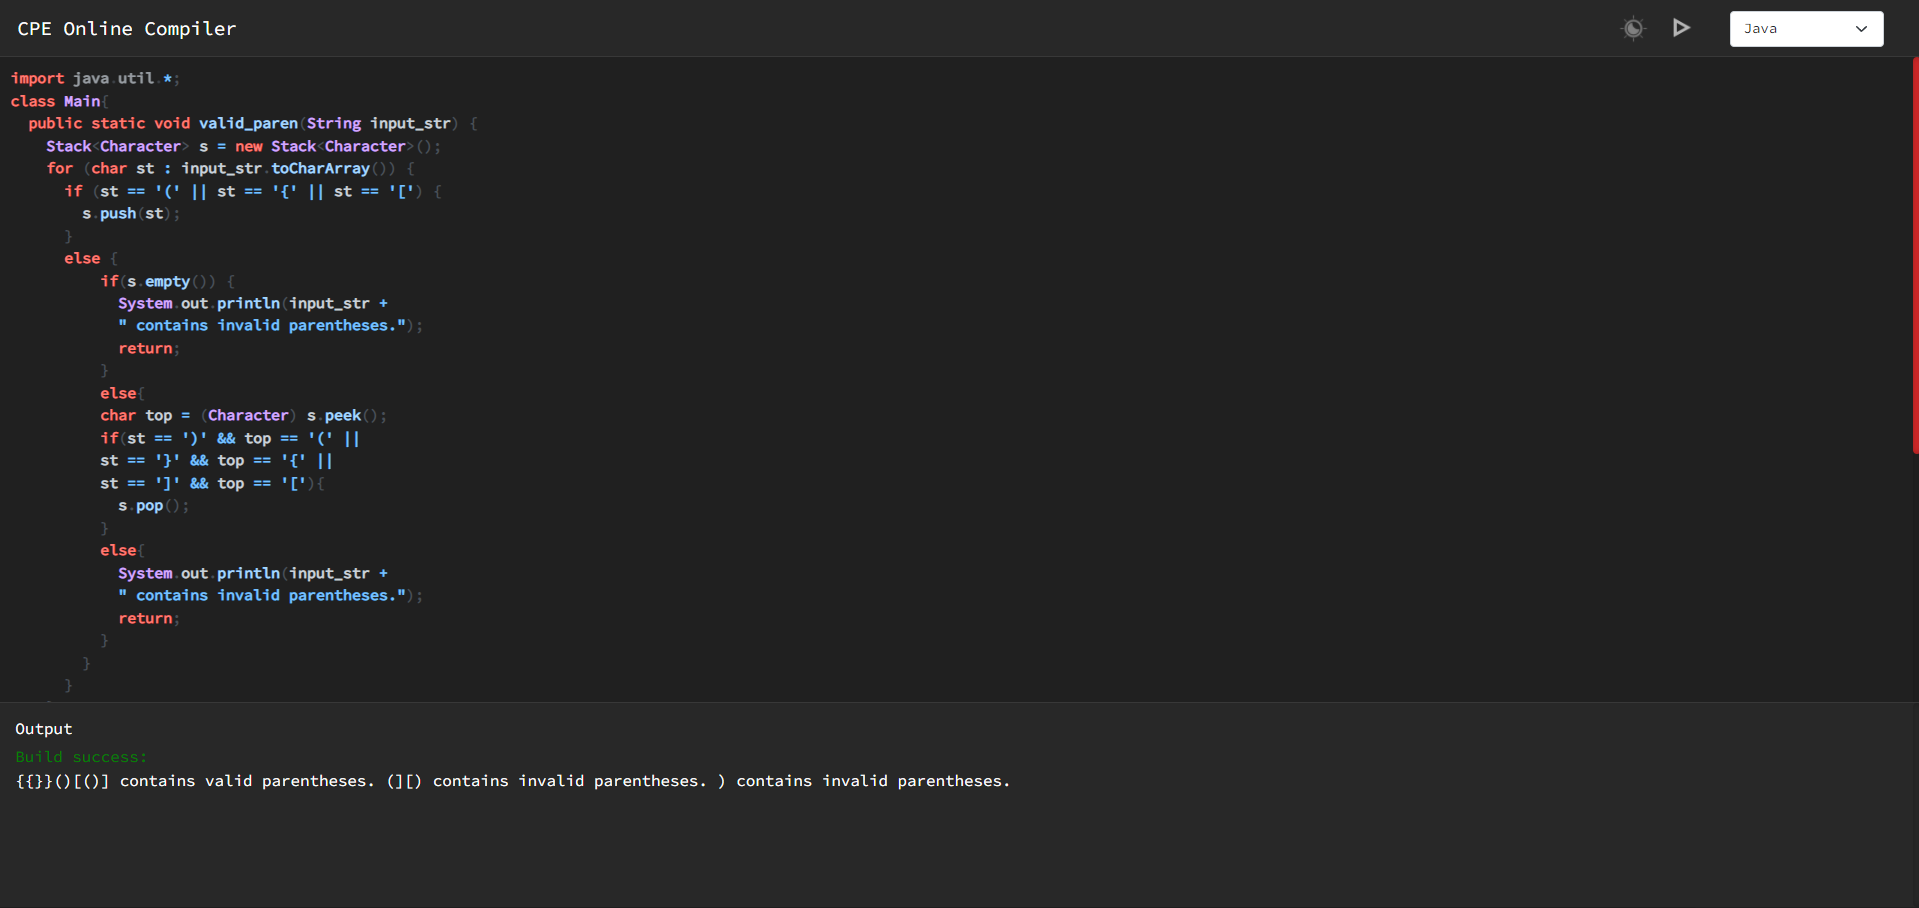
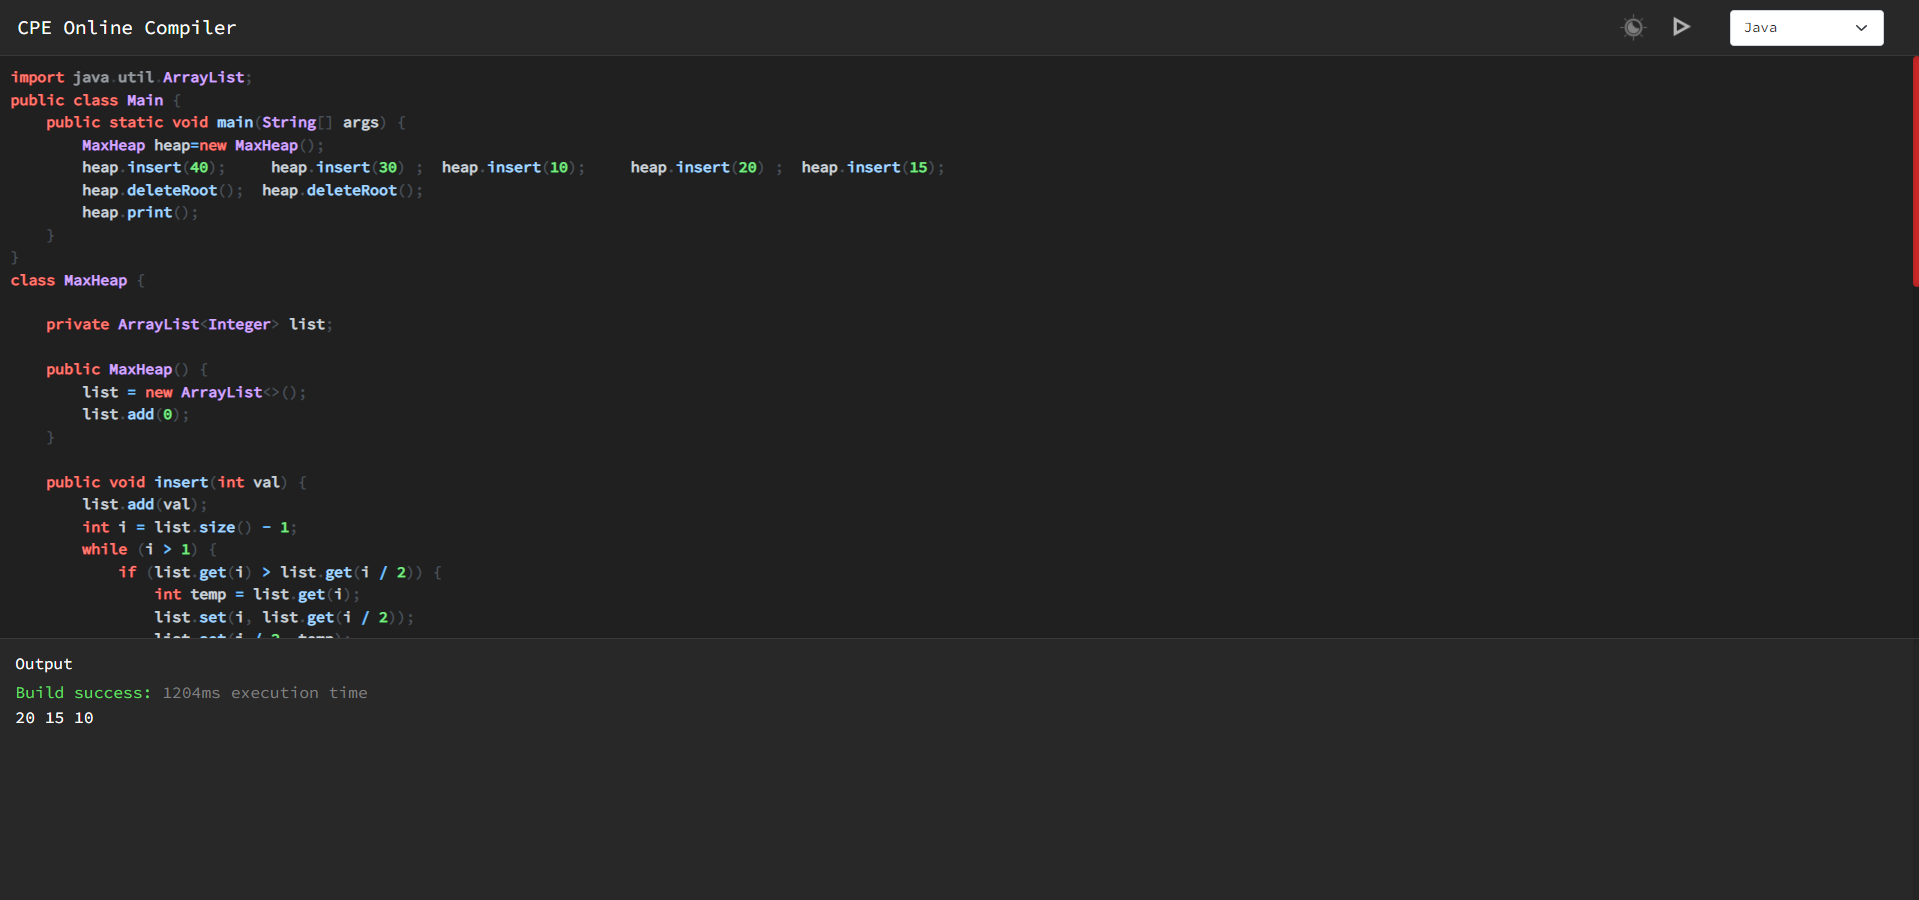
execution time added

diff --git a/backend/server.js b/backend/server.js
@@ -6,7 +6,7 @@ const { runcpp } = require('./runCpp')
 const { runjava } = require('./runJava')
 const { runpy } = require('./runPy')
 const { runc } = require('./runC')
-const {deleteFile}=require('./deleteFile')
+const { deleteFile } = require('./deleteFile')
 
 
 const app = express()
@@ -16,27 +16,32 @@ app.use(bodyParser.urlencoded({ extended: true }));
 
 
 app.post('/run', async (req, res) => {
+    const inDate = new Date()
     const { language, code } = req.body
     if (!language) return res.json({ error: 'No language mentioned' })
     if (!code) return res.json({ error: 'Empty code' })
     const fileCreatedPath = await createFile(code, language)
     if (language === 'cpp') {
         const out = await runcpp(fileCreatedPath)
+        out.push(new Date() - inDate);
         deleteFile(fileCreatedPath)
         res.send(out);
     }
     if (language === 'java') {
-        const out =await  runjava(fileCreatedPath)
+        const out = await runjava(fileCreatedPath)
+        out.push(new Date() - inDate);
         deleteFile(fileCreatedPath)
         res.send(out);
     }
     if (language === 'py') {
         const out = await runpy(fileCreatedPath)
+        out.push(new Date() - inDate);
         deleteFile(fileCreatedPath)
         res.send(out);
     }
     if (language === 'c') {
         const out = await runc(fileCreatedPath)
+        out.push(new Date() - inDate);
         deleteFile(fileCreatedPath)
         res.send(out);
     }

diff --git a/client/src/App.js b/client/src/App.js
@@ -20,6 +20,8 @@ function App() {
   const [bg1, setBg1] = useState('#202020')
   const [color,setColor]=useState('white')
   const [border,setBorder]=useState('rgb(56 56 56)')
+  const [buildcolor,setBuildcol]=useState('#65de65')
+  //
   async function sendCode() {
     setLoading(true)
     const resp = await fetch('http://localhost:5000/run', {
@@ -34,7 +36,7 @@ function App() {
     })
     const data = await resp.json()
     setLoading(false)
-    // console.log(data);
+    console.log(data);
     setOutput(data);
   }
   function setProplang(e) {
@@ -59,12 +61,14 @@ function App() {
       setBg1('#202020')
       setColor('white')
       setBorder('rgb(56 56 56)')
+      setBuildcol('#65de65')
     }
     else{
       setBg('rgb(235 235 235)')
       setBg1('#F2F3F5')
       setColor('black')
       setBorder('rgb(218 218 218)')
+      setBuildcol('#227f22')
     }
     setDark(!dark)
   }
@@ -122,7 +126,7 @@ function App() {
       }
       <Navbar border={border} col={color} bgcol={bg} run={sendCode} selectlang={setProplang} langsel={language} dark={handleDark} mode={dark}></Navbar>
       <TextEditor bgcol={bg1} code={setCode} c={code} lang={language}></TextEditor>
-      <Output border={border} col={color} bgcol={bg} op={output}></Output>
+      <Output buildcol={buildcolor} border={border} col={color} bgcol={bg} op={output}></Output>
     </div>
   );
 }

diff --git a/client/src/Output.js b/client/src/Output.js
@@ -6,7 +6,7 @@ export const Output = (props) => {
             <h6 style={{ color: props.col, zIndex: '99', position: 'absolute', top: '15px', fontSize: '15.25px' }}>Output </h6>
             <div className="output" style={{ color: 'white', display: 'flex', flexDirection: 'column' }}>
                 {(props.op[0]) ?
-                    <span style={{ color: 'green' }}> Build success: </span> : <></>}
+                    <span style={{ color: props.buildcol }}> Build success: <span style={{color:'gray'}}> {props.op[2]}ms execution time</span></span> : <></>}
                 <p style={{ color: props.col }}>{props.op[0]}</p>
                 {(props.op[1]) ?
                     <span style={{ color: 'red' ,marginTop:'-15px'}}> Build failed: </span> : <></>}

diff --git a/backend/runPy.js b/backend/runPy.js
@@ -9,6 +9,7 @@ const runpy = async (codePath) => {
     try {
         const out=execSync(`${command}`)
         arr.push(out.toString());
+        arr.push('')
     }catch(e){
         arr.push('')
         arr.push(e.stderr.toString());

diff --git a/backend/runC.js b/backend/runC.js
@@ -9,6 +9,7 @@ const runc = async (codePath) => {
     try {
         const out=execSync(`${command}`)
         arr.push(out.toString());
+        arr.push('')
     }catch(e){
         arr.push('')
         arr.push(e.stderr.toString());

diff --git a/backend/runJava.js b/backend/runJava.js
@@ -9,6 +9,7 @@ const runjava=async(codePath)=>{
     try {
         const out=execSync(`${command}`)
         arr.push(out.toString());
+        arr.push('')
     }catch(e){
         arr.push('')
         arr.push(e.stderr.toString());

diff --git a/backend/runCpp.js b/backend/runCpp.js
@@ -9,6 +9,7 @@ const runcpp=async(codePath)=>{
     try {
         const out=execSync(`${command}`)
         arr.push(out.toString());
+        arr.push('')
     }catch(e){
         arr.push('')
         arr.push(e.stderr.toString());

diff --git a/README.md b/README.md
@@ -9,6 +9,7 @@ CPE is an open source online code compiler for C, C++, Python, Java.
 - Syntax Highlight
 - Dark / light mode
 - Auto indent
+- Execution time
 
 <img src="./images/1.png">
 <img src="./images/2.png">
